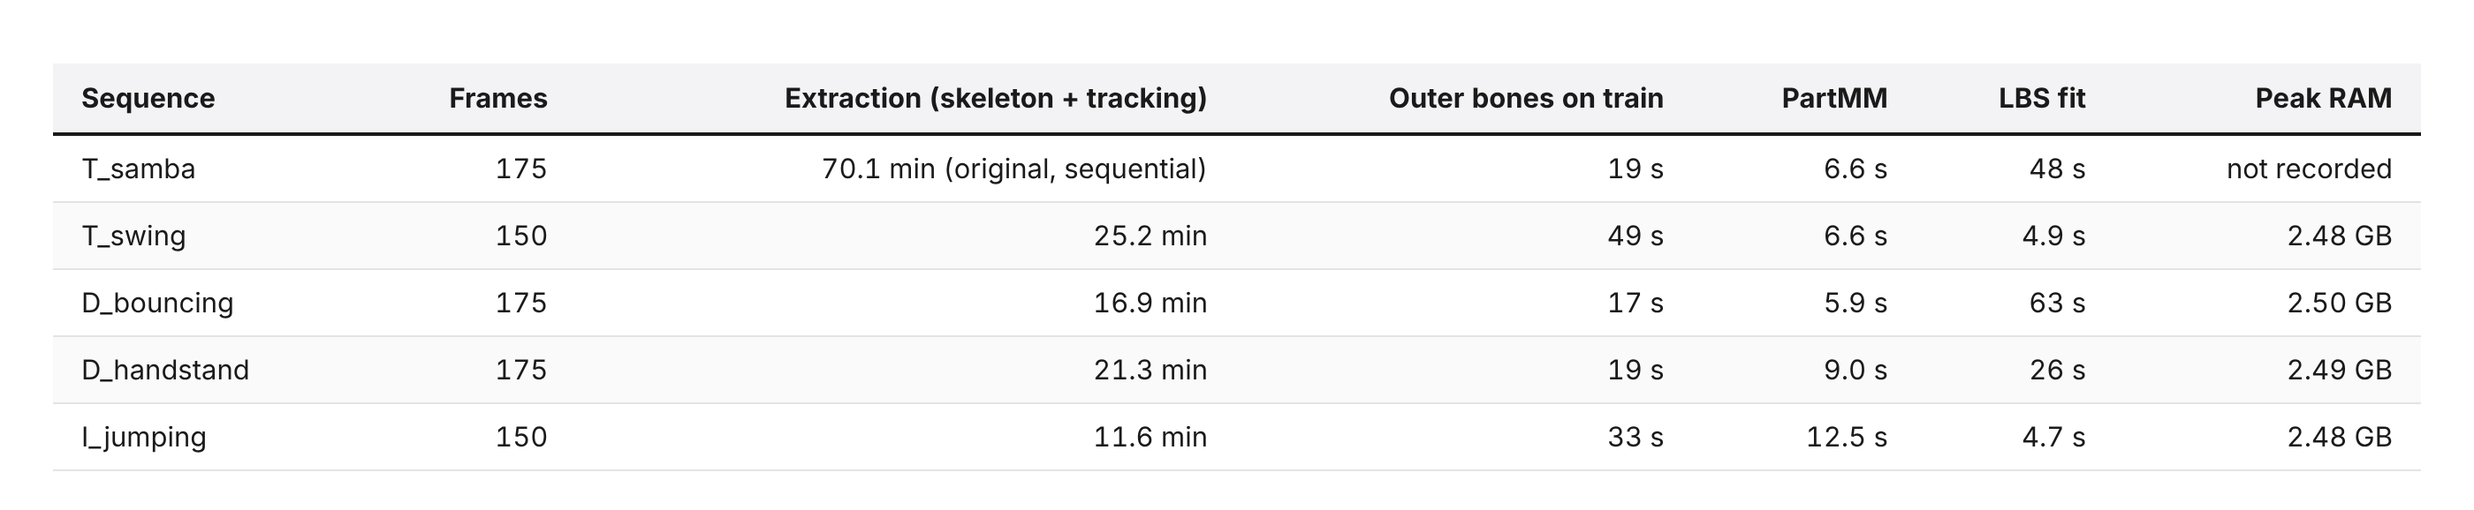
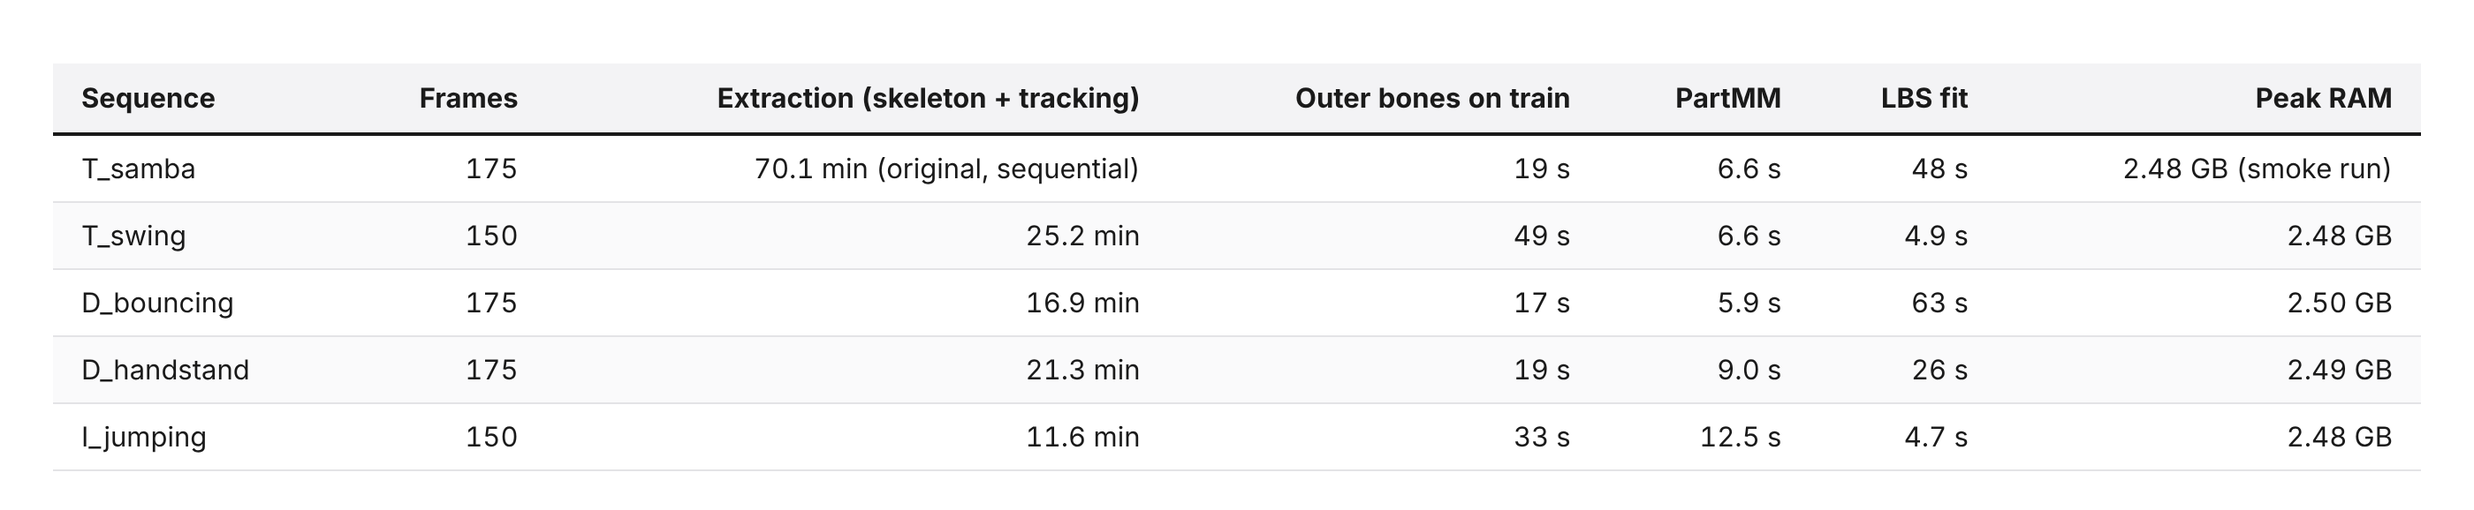
Add setup log, error-over-time chart, frame/two-level bootstrap, p95 table, method-limits issue; portable run scripts

diff --git a/scripts/frame_analysis.py b/scripts/frame_analysis.py
@@ -1,0 +1,70 @@
+"""Descriptive, frame-level analysis on top of analyze.py (does NOT change the pre-registered verdicts).
+1) error-over-time chart: per-frame held-out RMSE for PartMM / LBS / nearest pose, all 5 sequences.
+2) two-level bootstrap (resample sequences, then test frames within each sequence), 10,000 resamples, seed 0.
+3) per-sequence frame-bootstrap CI of PartMM's reduction vs LBS and vs nearest pose.
+Reads run/full/<case>/metrics.json (rmse_per_frame); writes results/frame_bootstrap.json, tables/per_sequence_ci.md,
+figures/error_over_time.png."""
+import json
+from pathlib import Path
+import numpy as np
+import matplotlib; matplotlib.use("Agg"); import matplotlib.pyplot as plt
+plt.rcParams.update({"font.size": 13})
+R = Path(__file__).resolve().parents[1]
+CASES = ["T_samba", "T_swing", "D_bouncing", "D_handstand", "I_jumping"]
+pf = {c: {a: np.array(json.load(open(R / "run/full" / c / "metrics.json"))["metrics"][a]["rmse_per_frame"])
+          for a in ["PM", "LBS", "NN"]} for c in CASES}
+# sanity: per-frame means reproduce the per-sequence primary metric
+for c in CASES:
+    m = json.load(open(R / "run/full" / c / "metrics.json"))["metrics"]
+    for a in ["PM", "LBS", "NN"]: assert abs(pf[c][a].mean() - m[a]["rmse"]) < 1e-9, (c, a)
+rng = np.random.default_rng(0); B = 10000
+def two_level(base):
+    out = np.empty(B)
+    for b in range(B):
+        ss = rng.integers(0, len(CASES), len(CASES)); r = []
+        for s in ss:
+            c = CASES[s]; n = len(pf[c]["PM"]); fi = rng.integers(0, n, n)
+            r.append((pf[c][base][fi].mean() - pf[c]["PM"][fi].mean()) / pf[c][base][fi].mean())
+        out[b] = np.mean(r)
+    return np.percentile(out, [2.5, 97.5]).tolist()
+def per_seq(c, base):
+    n = len(pf[c]["PM"]); fi = rng.integers(0, n, (B, n))
+    A, P = pf[c][base][fi].mean(1), pf[c]["PM"][fi].mean(1)
+    pt = (pf[c][base].mean() - pf[c]["PM"].mean()) / pf[c][base].mean()
+    return pt, np.percentile((A - P) / A, [2.5, 97.5]).tolist(), int((pf[c]["PM"] < pf[c][base]).sum()), n
+res = {"note": "descriptive only; verdicts use the pre-registered sequence-level bootstrap (results/summary.json)",
+       "two_level_ci95": {"PM_vs_LBS": two_level("LBS"), "PM_vs_NN": two_level("NN")}, "per_sequence": {}}
+rows = []
+for c in CASES:
+    l = per_seq(c, "LBS"); n_ = per_seq(c, "NN")
+    res["per_sequence"][c] = {"vs_LBS": l, "vs_NN": n_}
+    f = lambda x: f"{100*x:.0f}%".replace("-", "−")
+    rows.append(f"| {c} | {l[3]} | {f(l[0])} | {f(l[1][0])} to {f(l[1][1])} | {l[2]}/{l[3]} | {f(n_[0])} | {f(n_[1][0])} to {f(n_[1][1])} | {n_[2]}/{n_[3]} |")
+json.dump(res, open(R / "results/frame_bootstrap.json", "w"), indent=1)
+tl = res["two_level_ci95"]
+md = ["| Sequence | Test frames | vs LBS: reduction | 95% CI | Frames won | vs nearest pose: reduction | 95% CI | Frames won |",
+      "|---|---:|---:|---:|---:|---:|---:|---:|"] + rows + [
+      f"| **All 5 (two-level bootstrap)** | 165 | 21.8% | {100*tl['PM_vs_LBS'][0]:.1f}% to {100*tl['PM_vs_LBS'][1]:.1f}% | | 61.3% | {100*tl['PM_vs_NN'][0]:.1f}% to {100*tl['PM_vs_NN'][1]:.1f}% | |".replace("% to -", "% to −").replace("| -", "| −")]
+open(R / "tables/per_sequence_ci.md", "w").write("\n".join(md) + "\n")
+# error over time
+cols = {"PM": "#2b6cb0", "LBS": "#dd6b20", "NN": "#38a169"}; LBL = {"PM": "PartMM", "LBS": "Fitted skinning (LBS)", "NN": "Nearest training pose"}
+fig, axs = plt.subplots(1, 5, figsize=(20, 4.6), sharey=False)
+for ax, c in zip(axs, CASES):
+    for a in ["NN", "LBS", "PM"]: ax.plot(np.arange(1, len(pf[c][a]) + 1), 100 * pf[c][a], color=cols[a], lw=2.2 if a == "PM" else 1.6, label=LBL[a])
+    ax.set_title(c); ax.set_xlabel("held-out frame (1 = first after training)"); ax.set_ylim(bottom=0); ax.spines[["top", "right"]].set_visible(False)
+axs[0].set_ylabel("vertex RMSE (% of body diagonal)")
+h, l = axs[0].get_legend_handles_labels(); fig.legend(h[::-1], l[::-1], ncol=3, frameon=False, loc="upper center")
+fig.tight_layout(rect=(0, 0, 1, 0.9)); fig.savefig(R / "figures/error_over_time.png", dpi=150)
+print(json.dumps(res, indent=1))
+# p95 per-vertex error table (pre-registered secondary metric)
+p95 = {c: {a: json.load(open(R / "run/full" / c / "metrics.json"))["metrics"][a]["p95"] for a in ["PM", "LBS", "NN", "STATIC"]} for c in CASES}
+def cell(c, a):
+    best = min(p95[c][x] for x in ["PM", "LBS", "NN"]); v = f"{100*p95[c][a]:.2f}"
+    return f"**{v}**" if p95[c][a] == best else v
+md = ["| Sequence | PartMM | Fitted skinning (LBS) | Nearest training pose | Static frame 0 | PartMM vs LBS |", "|---|---:|---:|---:|---:|---:|"]
+for c in CASES:
+    r = (p95[c]["PM"] - p95[c]["LBS"]) / p95[c]["LBS"]
+    md.append(f"| {c} | {cell(c,'PM')} | {cell(c,'LBS')} | {cell(c,'NN')} | {100*p95[c]['STATIC']:.1f} | {'+' if r > 0 else '−'}{abs(100*r):.0f}% |")
+mean = {a: np.mean([p95[c][a] for c in CASES]) for a in ["PM", "LBS", "NN", "STATIC"]}
+md.append(f"| **Mean** | **{100*mean['PM']:.2f}** | {100*mean['LBS']:.2f} | {100*mean['NN']:.2f} | {100*mean['STATIC']:.1f} | |")
+open(R / "tables/results_p95.md", "w").write("\n".join(md) + "\n")

diff --git a/blog/post.md b/blog/post.md
@@ -69,6 +69,8 @@ Other small snags:
 - A foreground build was interrupted and was re-run in the background.
 - Several agents shared the box (load average 15–55), so all timings here are pessimistic.
 
+The full step-by-step log, with every command, version and timing, is in [SETUP_LOG.md](https://github.com/nankris/partmm-vs-skinning-unseen-poses/blob/main/SETUP_LOG.md) in the repo.
+
 ## Results
 
 ![](../figures/table_results.png)
@@ -103,7 +105,20 @@ PartMM beat fitted skinning on 4 of 5 sequences:
 
 The mean is 22% better, but with five sequences that differ this much, the 95% interval runs from −2% to +45%. My bar was that the *lower end* clears 10%. It doesn't, so H1 is **inconclusive**, not proven.
 
-One secondary number points the same way. On the 20% of vertices that skinning struggles with most (the loose cloth regions), PartMM's error was 34% lower (CI 11–57%). I fixed that as descriptive in advance, so it isn't a verdict.
+![](../figures/error_over_time.png)
+*Error on every held-out frame, in time order. The gap is stable over time on samba and handstand. On swing and jumping, PartMM and skinning cross several times.*
+
+![](../figures/table_per_sequence_ci.png)
+*Per-sequence reductions with frame-level bootstrap intervals. Neighbouring frames are correlated, so these intervals are too narrow. They show how consistent each sequence is, not a verdict.*
+
+Within a sequence the picture is very consistent. PartMM beat skinning on 35 of 35 samba frames and 35 of 35 handstand frames, and lost on 21 of 30 jumping frames. The uncertainty comes from the sequences disagreeing with each other, not from noisy frames. I also ran a two-level bootstrap, resampling sequences and then frames within each sequence. It gives almost the same interval as the pre-registered one (−2.4% to +45.6%), so the verdict doesn't depend on which bootstrap you pick.
+
+Worst-case error tells a slightly less flattering story. At the 95th percentile of per-vertex error, PartMM was worse than skinning on swing (+12%) as well as on jumping (+18%). On swing the average error ties, but PartMM's worst vertices are worse. The pre-registered summary of this metric is 18% lower for PartMM, with a CI of −9% to +45%. Like the main result, that isn't conclusive.
+
+![](../figures/table_p95.png)
+*95th-percentile vertex error per sequence. This is a pre-registered secondary metric and descriptive only.*
+
+One secondary number points the same way as the main result. On the 20% of vertices that skinning struggles with most (the loose cloth regions), PartMM's error was 34% lower (CI 11–57%). I fixed that as descriptive in advance, so it isn't a verdict.
 
 ### What it looks like
 
@@ -134,6 +149,7 @@ Motion matching can only reuse motion it has seen. When the needed cloth motion 
 - **PartMM itself is fast:** 6–13 s for the whole test set of a sequence, in pure NumPy.
 - **The cost is all in building the skeleton,** above all the per-frame surface tracking.
 - **Peak RAM:** about 2.5 GB per sequence.
+- **Full timed setup log:** [SETUP_LOG.md](https://github.com/nankris/partmm-vs-skinning-unseen-poses/blob/main/SETUP_LOG.md).
 
 ## How to reproduce
 
@@ -145,9 +161,11 @@ git clone https://github.com/Net-Maker/GaussiAnimate && cd GaussiAnimate && git 
 uv venv --python 3.10 .venv && . .venv/bin/activate
 uv pip install -e '.[geometry,visualization,ssdr,dev]' pybind11
 bash scripts/install_geometry.sh
-# AMA: download the mesh archives from the project page into data/AMA/<case>/meshes/
+# AMA: download the mesh archives from the project page into <repo>/data/AMA/<case>/meshes/
+export PYTHONPATH=$PWD OMP_NUM_THREADS=4 GA_TRACK_PROCS=4
 python <repo>/scripts/eval_sequence.py T_samba run/full/T_samba   # one sequence, ~12-70 min on CPU
 python <repo>/scripts/analyze.py                                   # bootstrap + verdicts + figures
+python <repo>/scripts/frame_analysis.py                            # error-over-time, frame bootstrap, p95 table
 python <repo>/scripts/render_compare.py T_samba                    # comparison sheet + GIF
 ```
 
@@ -158,13 +176,15 @@ python <repo>/scripts/render_compare.py T_samba                    # comparison 
 
 - **5 sequences, not 10.** I cut the scope to get this out the same day, and the reduction was pre-registered as an amendment before any of the new sequences were scored. I picked the 3 added sequences for variety and cloth (all three performers, an inverted pose, both dress sequences), not for results. The 5 not run are D_march, D_squat, I_crane, I_march and I_squat. n = 5 is why the H1 interval is so wide.
 - **Not the paper's benchmark.** The garment dataset and the Gaussian-splat checkpoints aren't freely available. This is a fresh test of the core idea, not a reproduction of the 48% number.
-- **Shared pose tracker.** The inner skeleton and the test-frame joint angles come from running the pipeline on the full sequence, so tracking saw the test surfaces. All methods get the same query, so the comparison stays fair, but absolute errors are optimistic.
-- **The skinning baseline is strong.** Its weights are fitted to all training frames, unlike the heuristic weight transfer often used as a baseline. That's deliberate, and it's one reason the gap is smaller than the paper's.
+- **Shared pose tracker, with a leak.** The skeleton (joint layout) is extracted from the *whole* sequence, test frames included, and the test-frame joint angles come from tracking those test surfaces. Only the outer bones and the skinning weights are restricted to training frames. All methods get the same query, so the comparison stays fair, but absolute errors are optimistic.
+- **The skinning baseline is strong.** Its weights are fitted to all training frames, unlike the heuristic weight transfer often used as a baseline. That's deliberate, and it's likely one reason the gap is smaller than the paper's (I didn't test this).
 - **Default settings everywhere,** with no tuning per sequence.
-- **Timings come from a shared, heavily loaded box.** Expect them to be faster on a quiet machine.
+- **CPU only.** No GPU was used or needed, because the pipeline here is mesh-based and I didn't train the Gaussian-splat renderer. Timings come from a shared, heavily loaded 8-core box. Expect them to be faster on a quiet machine.
+- **Frame-level intervals are optimistic.** Neighbouring test frames are strongly correlated. The verdicts use the pre-registered sequence-level bootstrap, and the frame-level numbers are only there to show consistency within each sequence.
+- **Temporal split only.** The test poses are the end of each motion. That is a fair "unseen pose" test, but it also means some test motion, like the swing hem, has no close match in the database.
 
 ## Bottom line
 
-Partwise motion matching does what it says on the box. Letting each body part borrow motion from a different moment beats copying whole poses by a wide margin.
+Partwise motion matching did what the paper says it does. Letting each body part borrow motion from a different moment beats copying whole poses by a wide margin.
 
 Against well-fitted skinning it is *probably* better, by about a fifth on average, and clearly better on the samba dress. But on five sequences that's a lean, not a result. More sequences, or ones where the test poses stay inside what the database has seen, would settle it.

diff --git a/SETUP_LOG.md b/SETUP_LOG.md
@@ -1,0 +1,28 @@
+# Setup log: GaussiAnimate on a CPU-only Linux box
+
+These are the steps in the order I ran them on 22 Oct 2026, with the times in IST. Nothing here needs a GPU, an account or a licence form.
+
+**Machine:** Debian, 8 cores, 15 GB RAM, no GPU. The box was shared with other heavy jobs the whole time (load average 15–55). Every timing below is pessimistic.
+
+| # | Step | Command | Result / time |
+|---|---|---|---|
+| 1 | System packages | `sudo apt install build-essential cmake libcgal-dev libeigen3-dev python3-dev libx11-6 libgl1 libegl1 libegl-mesa0 fonts-dejavu-core` | Installed **CGAL 6.0.1**, Eigen 3.4.0, Boost 1.83, cmake 3.31.6 and g++ 14.2. The repo doesn't pin a CGAL version. |
+| 2 | Code | `git clone https://github.com/Net-Maker/GaussiAnimate && git checkout 2012a6e` | MIT licence, commit of 18 Oct 2026 |
+| 3 | Python | `uv venv --python 3.10 .venv` | The system Python is 3.13, but the repo requires `>=3.8,<3.12` and `numpy<1.26`. uv 0.13 fetched Python 3.10.22 on its own, so there was no need to touch the system Python. |
+| 4 | Python deps | `uv pip install -e '.[geometry,visualization,ssdr,dev]' pybind11` | numpy 1.25.2, scipy 1.15.3, open3d 0.19.0; a minute or two (not timed precisely) |
+| 5 | Native builds | `bash scripts/install_geometry.sh` | Builds `pyssdr` (Dem Bones via pybind11) and the CGAL `curve_skeleton` binary: **54 s** wall. With CGAL 6.0.1 it needed no patches. The only output was two harmless CMake warnings (pybind11's old `cmake_minimum_required` and CGAL's FindBoost policy CMP0167). |
+| 6 | Data | AMA mesh archives from https://people.csail.mit.edu/drdaniel/mesh_animation/ unpacked to `data/AMA/<case>/meshes/` | 10 sequences, 1.7 GB unpacked; public, no forms |
+| 7 | Smoke run | `time python scripts/eval_sequence.py T_samba run/smoke_T_samba` | **71 min 09 s** wall (user 37 min), peak RAM 2.48 GB. Extraction took 4,207 s, almost all of it surface-constrained IK. The rest: SSDR on train frames 11 s, PartMM 4 s, LBS fit 19 s. |
+| 8 | Patch | `scripts/fast_tracking.py` (+ `scripts/test_fast_tracking.py`) | The per-frame IK solves run on a 4-process pool. The output is bit-identical (max difference 0.0 on 8 frames) and 8 frames took 75 s instead of 113 s. |
+| 9 | Full runs | `scripts/run_seq_one_at_a_time.sh` (one sequence at a time, `OMP_NUM_THREADS=4`, `GA_TRACK_PROCS=4`) | 13–27 min per sequence end to end, about 2.5 GB peak RAM each |
+| 10 | Analysis | `python scripts/analyze.py && python scripts/frame_analysis.py` | A few seconds |
+| 11 | Renders | `python scripts/render_compare.py <case>` | About 12 s per sequence (24 frames × 4 panels, 480 px each, pure PIL) |
+
+## What broke, and the fix
+
+1. **The Python version.** The box has Python 3.13, and the repo refuses anything newer than 3.11. Its NumPy pin (`<1.26`) has no 3.13 wheels anyway. **Fix:** a uv-managed Python 3.10 virtualenv (step 3). No system changes.
+2. **CGAL 6.0.1.** I expected trouble because CGAL 6 changed several headers and the repo gives no version. **No fix needed:** the curve-skeleton tool compiled and ran as is.
+3. **A foreground build was interrupted.** The first `install_geometry.sh` call ran in the foreground and was interrupted before it finished. **Fix:** re-ran it in the background with `nohup`, and it succeeded in 54 s.
+4. **`/usr/bin/time` was missing.** The first smoke launch failed before running anything. **Fix:** used bash's `time` builtin.
+5. **Surface-IK runtime (the real problem).** `refine_motion_with_surface` solves one SLSQP problem per frame, single-threaded, at 16–26 s per frame under load. All 10 sequences would have taken about 12 hours. **Fix:** the per-frame solves don't depend on each other, so `fast_tracking.py` records the exact arguments from the unmodified function and solves them in parallel. The result is bit-identical. T_samba's extraction was made before the patch and is reused as is. See `issues-found/01-surface-ik-runtime.md`.
+6. **Scope.** Even with the patch, 10 sequences didn't fit the day, so I cut to 5 sequences before scoring the new ones (PREREGISTRATION Amendment 1, `issues-found/02-scope-cut-5-sequences.md`).

diff --git a/README.md b/README.md
@@ -10,11 +10,13 @@ This is an independent, pre-registered test of **PartMM**, the partwise motion m
 | H1: vs fitted skinning (LBS), bar ≥ 10% | 21.8% | −1.9% … 45.5% | **INCONCLUSIVE** (4/5 wins) |
 | H2: vs nearest whole-body pose | 61.3% | 38.9% … 75.5% | **PROVEN** (5/5 wins) |
 
-Sanity check: PartMM and LBS beat a static mesh on 5/5. Secondary (descriptive): dynamic-region RMSE vs LBS was 34.0% lower (11.5% … 56.6%).
+Sanity check: PartMM and LBS beat a static mesh on 5/5. Secondary (descriptive): dynamic-region RMSE vs LBS was 34.0% lower (11.5% … 56.6%), and p95 vertex error vs LBS was 18.0% lower (−8.9% … 45.0%). A two-level bootstrap over sequences and frames (descriptive) gives almost the same intervals: −2.4% … 45.6% vs LBS and 38.4% … 75.6% vs nearest pose.
 
 ![results](figures/table_results.png)
 
-Full numbers: `results/summary.json` and `run/full/<case>/metrics.json`. Error renders: `figures/compare_<case>_sheet.png` and `.gif`.
+![error over time](figures/error_over_time.png)
+
+Full numbers: `results/summary.json`, `results/frame_bootstrap.json` and `run/full/<case>/metrics.json`. Error renders: `figures/compare_<case>_sheet.png` and `.gif`.
 
 ## What's here
 | Path | What |
@@ -25,7 +27,9 @@ Full numbers: `results/summary.json` and `run/full/<case>/metrics.json`. Error r
 | `scripts/fast_tracking.py` | parallel, bit-identical replacement for the per-frame surface-IK loop (see issues-found/01) |
 | `scripts/test_fast_tracking.py` | equivalence test (max Δ = 0.0) |
 | `scripts/run_seq_one_at_a_time.sh` | the sequential runner that was used |
-| `scripts/analyze.py` | bootstrap, verdicts, figures |
+| `scripts/analyze.py` | pre-registered bootstrap, verdicts, figures |
+| `scripts/frame_analysis.py` | descriptive extras: error-over-time chart, two-level and per-sequence frame bootstrap, p95 table |
+| `SETUP_LOG.md` | step-by-step setup with versions, timings, what broke and the fixes |
 | `scripts/render_compare.py` | GT / PartMM / LBS / NN renders coloured by error |
 | `issues-found/` | what broke and how it was handled |
 | `_agent_logs/` | timestamped process log |
@@ -42,12 +46,14 @@ bash scripts/install_geometry.sh                                         # pyssd
 #   unpack to <this repo>/data/AMA/<case>/meshes/mesh_*.obj
 export PYTHONPATH=$PWD OMP_NUM_THREADS=4 GA_TRACK_PROCS=4
 python <this repo>/scripts/eval_sequence.py T_samba <this repo>/run/full/T_samba
-python <this repo>/scripts/analyze.py && python <this repo>/scripts/render_compare.py T_samba
+python <this repo>/scripts/analyze.py && python <this repo>/scripts/frame_analysis.py && python <this repo>/scripts/render_compare.py T_samba
 ```
 Measured on a shared 8-core / 16 GB box: 12–25 min per sequence with the parallel tracking (70 min sequential), and about 2.5 GB peak RAM.
 
 ## Limitations
 - n = 5 of the 10 AMA sequences. This was a user time cut, pre-registered as Amendment 1 before the new sequences were scored.
-- The pose tracker saw all frames, so tracking had access to the test surfaces. It's identical for all arms, but absolute errors are optimistic.
+- The skeleton is extracted from the whole sequence (test frames included), and the test-frame joint angles come from tracking the test surfaces. It's identical for all arms, but absolute errors are optimistic.
+- CPU only (8 cores, shared and heavily loaded). The Gaussian-splat rendering half of GaussiAnimate wasn't exercised.
+- Frame-level CIs are descriptive and too narrow (neighbouring frames are correlated). See `issues-found/04-method-limits.md`.
 - This doesn't reproduce the paper's benchmark: the VTO data and the Gaussian checkpoints aren't freely available.
 - Default configs only, no tuning.

diff --git a/issues-found/04-method-limits.md b/issues-found/04-method-limits.md
@@ -1,0 +1,6 @@
+# 04: Method limits that can't be fixed within this setup (disclosed, not bugs)
+- **Test-frame leak in the pose tracker.** The skeleton is extracted from the whole sequence, test frames included, and the test-frame joint angles come from tracking the test surfaces. Only the outer bones (SSDR) and the LBS weights are fitted on training frames. Every arm gets the same query, so the comparison is fair, but absolute errors are optimistic. A clean version would extract the skeleton from training frames only and track the test frames without surface constraints. That needs changes to the upstream pipeline, so it wasn't done here.
+- **The paper's numbers can't be reproduced.** The paper's garment benchmark (VTO) needs SMPL registration, and no trained Gaussian checkpoints are released. This is a fresh test of the PartMM idea on public AMA meshes. It says nothing about the 48.4% figure.
+- **CPU only.** There's no GPU on the box. The mesh pipeline doesn't need one, but the Gaussian-splat rendering half of GaussiAnimate wasn't exercised at all.
+- **Frame-level bootstrap intervals are too narrow.** Neighbouring frames are autocorrelated. The pre-registered verdicts use the sequence-level bootstrap. The frame-level and two-level bootstraps in `results/frame_bootstrap.json` are descriptive.
+- **The design changed before the pre-registration.** DESIGN.md (v1) planned a robust-weight-transfer LBS baseline. PREREGISTRATION.md replaced it with NNLS-fitted weights on training frames, before any run. That's a stronger baseline than the paper's.

diff --git a/issues-found/README.md b/issues-found/README.md
@@ -1,6 +1,9 @@
 # Issues found
 | # | Issue | Status |
 |---|---|---|
-| 01 | Surface-constrained IK dominates runtime (16–26 s/frame, single-threaded) | fixed with a bit-identical 4-process wrapper |
-| 02 | Scope cut from 10 to 5 sequences (user time decision) | disclosed; Amendment 1 |
-| 03 | Small setup snags: `/usr/bin/time` missing, an interrupted foreground build, and a dropped sequence (D_march) that the old runner had started, killed after 30 s with no output | handled |
+| [01](01-surface-ik-runtime.md) | Surface-constrained IK dominates runtime (16–26 s/frame, single-threaded) | fixed with a bit-identical 4-process wrapper |
+| [02](02-scope-cut-5-sequences.md) | Scope cut from 10 to 5 sequences (user time decision) | disclosed; Amendment 1 |
+| [03](03-setup-snags.md) | Setup snags: Python 3.13 vs the repo's ≤3.11 pin, `/usr/bin/time` missing, an interrupted foreground build, and a dropped sequence (D_march) that the old runner had started (killed after 30 s, no output) | handled |
+| [04](04-method-limits.md) | Method limits: pose-tracker test leak, paper not reproducible (gated data, no checkpoints), CPU only, frame-level CIs too narrow, baseline changed before pre-registration | disclosed |
+
+The step-by-step setup with timings is in [../SETUP_LOG.md](../SETUP_LOG.md).

diff --git a/issues-found/03-setup-snags.md b/issues-found/03-setup-snags.md
@@ -1,4 +1,5 @@
 # 03: Small setup and run snags
+- The box has Python 3.13, but the repo requires `>=3.8,<3.12` and `numpy<1.26`. I created a uv-managed Python 3.10.22 venv (`uv venv --python 3.10`), with no system changes.
 - `/usr/bin/time` isn't installed on the box, so the first smoke launch failed before running anything. I used bash `time` instead.
 - The first native build ran in the foreground, was interrupted, and was re-run in the background. It succeeded in 54 s with CGAL 6.0.1, no patches needed.
 - When the 5-sequence cut arrived (13:58 IST), the old runner had just started D_march (dropped). I killed it after 30 s, before any metric existed, and moved its partial output to `run/dropped/` (not in the repo).

diff --git a/tables/per_sequence_ci.md b/tables/per_sequence_ci.md
@@ -1,0 +1,8 @@
+| Sequence | Test frames | vs LBS: reduction | 95% CI | Frames won | vs nearest pose: reduction | 95% CI | Frames won |
+|---|---:|---:|---:|---:|---:|---:|---:|
+| T_samba | 35 | 60% | 55% to 64% | 35/35 | 18% | 4% to 28% | 26/35 |
+| T_swing | 30 | 1% | −8% to 9% | 14/30 | 65% | 61% to 69% | 29/30 |
+| D_bouncing | 35 | 22% | 18% to 27% | 33/35 | 69% | 66% to 72% | 35/35 |
+| D_handstand | 35 | 43% | 41% to 45% | 35/35 | 76% | 72% to 79% | 33/35 |
+| I_jumping | 30 | −17% | −26% to −8% | 9/30 | 78% | 75% to 81% | 30/30 |
+| **All 5 (two-level bootstrap)** | 165 | 21.8% | −2.4% to 45.6% | | 61.3% | 38.4% to 75.6% | |

diff --git a/tables/runtime.md b/tables/runtime.md
@@ -1,6 +1,6 @@
 | Sequence | Frames | Extraction (skeleton + tracking) | Outer bones on train | PartMM | LBS fit | Peak RAM |
 |---|---:|---:|---:|---:|---:|---:|
-| T_samba | 175 | 70.1 min (original, sequential) | 19 s | 6.6 s | 48 s | not recorded |
+| T_samba | 175 | 70.1 min (original, sequential) | 19 s | 6.6 s | 48 s | 2.48 GB (smoke run) |
 | T_swing | 150 | 25.2 min | 49 s | 6.6 s | 4.9 s | 2.48 GB |
 | D_bouncing | 175 | 16.9 min | 17 s | 5.9 s | 63 s | 2.50 GB |
 | D_handstand | 175 | 21.3 min | 19 s | 9.0 s | 26 s | 2.49 GB |

diff --git a/tables/results_p95.md b/tables/results_p95.md
@@ -1,0 +1,8 @@
+| Sequence | PartMM | Fitted skinning (LBS) | Nearest training pose | Static frame 0 | PartMM vs LBS |
+|---|---:|---:|---:|---:|---:|
+| T_samba | **2.23** | 5.09 | 3.12 | 68.2 | −56% |
+| T_swing | 7.79 | **6.92** | 22.88 | 29.1 | +12% |
+| D_bouncing | **4.04** | 4.87 | 15.54 | 22.7 | −17% |
+| D_handstand | **2.00** | 3.82 | 11.51 | 12.1 | −48% |
+| I_jumping | 4.74 | **4.00** | 22.89 | 38.1 | +18% |
+| **Mean** | **4.16** | 4.94 | 15.19 | 34.0 | |
